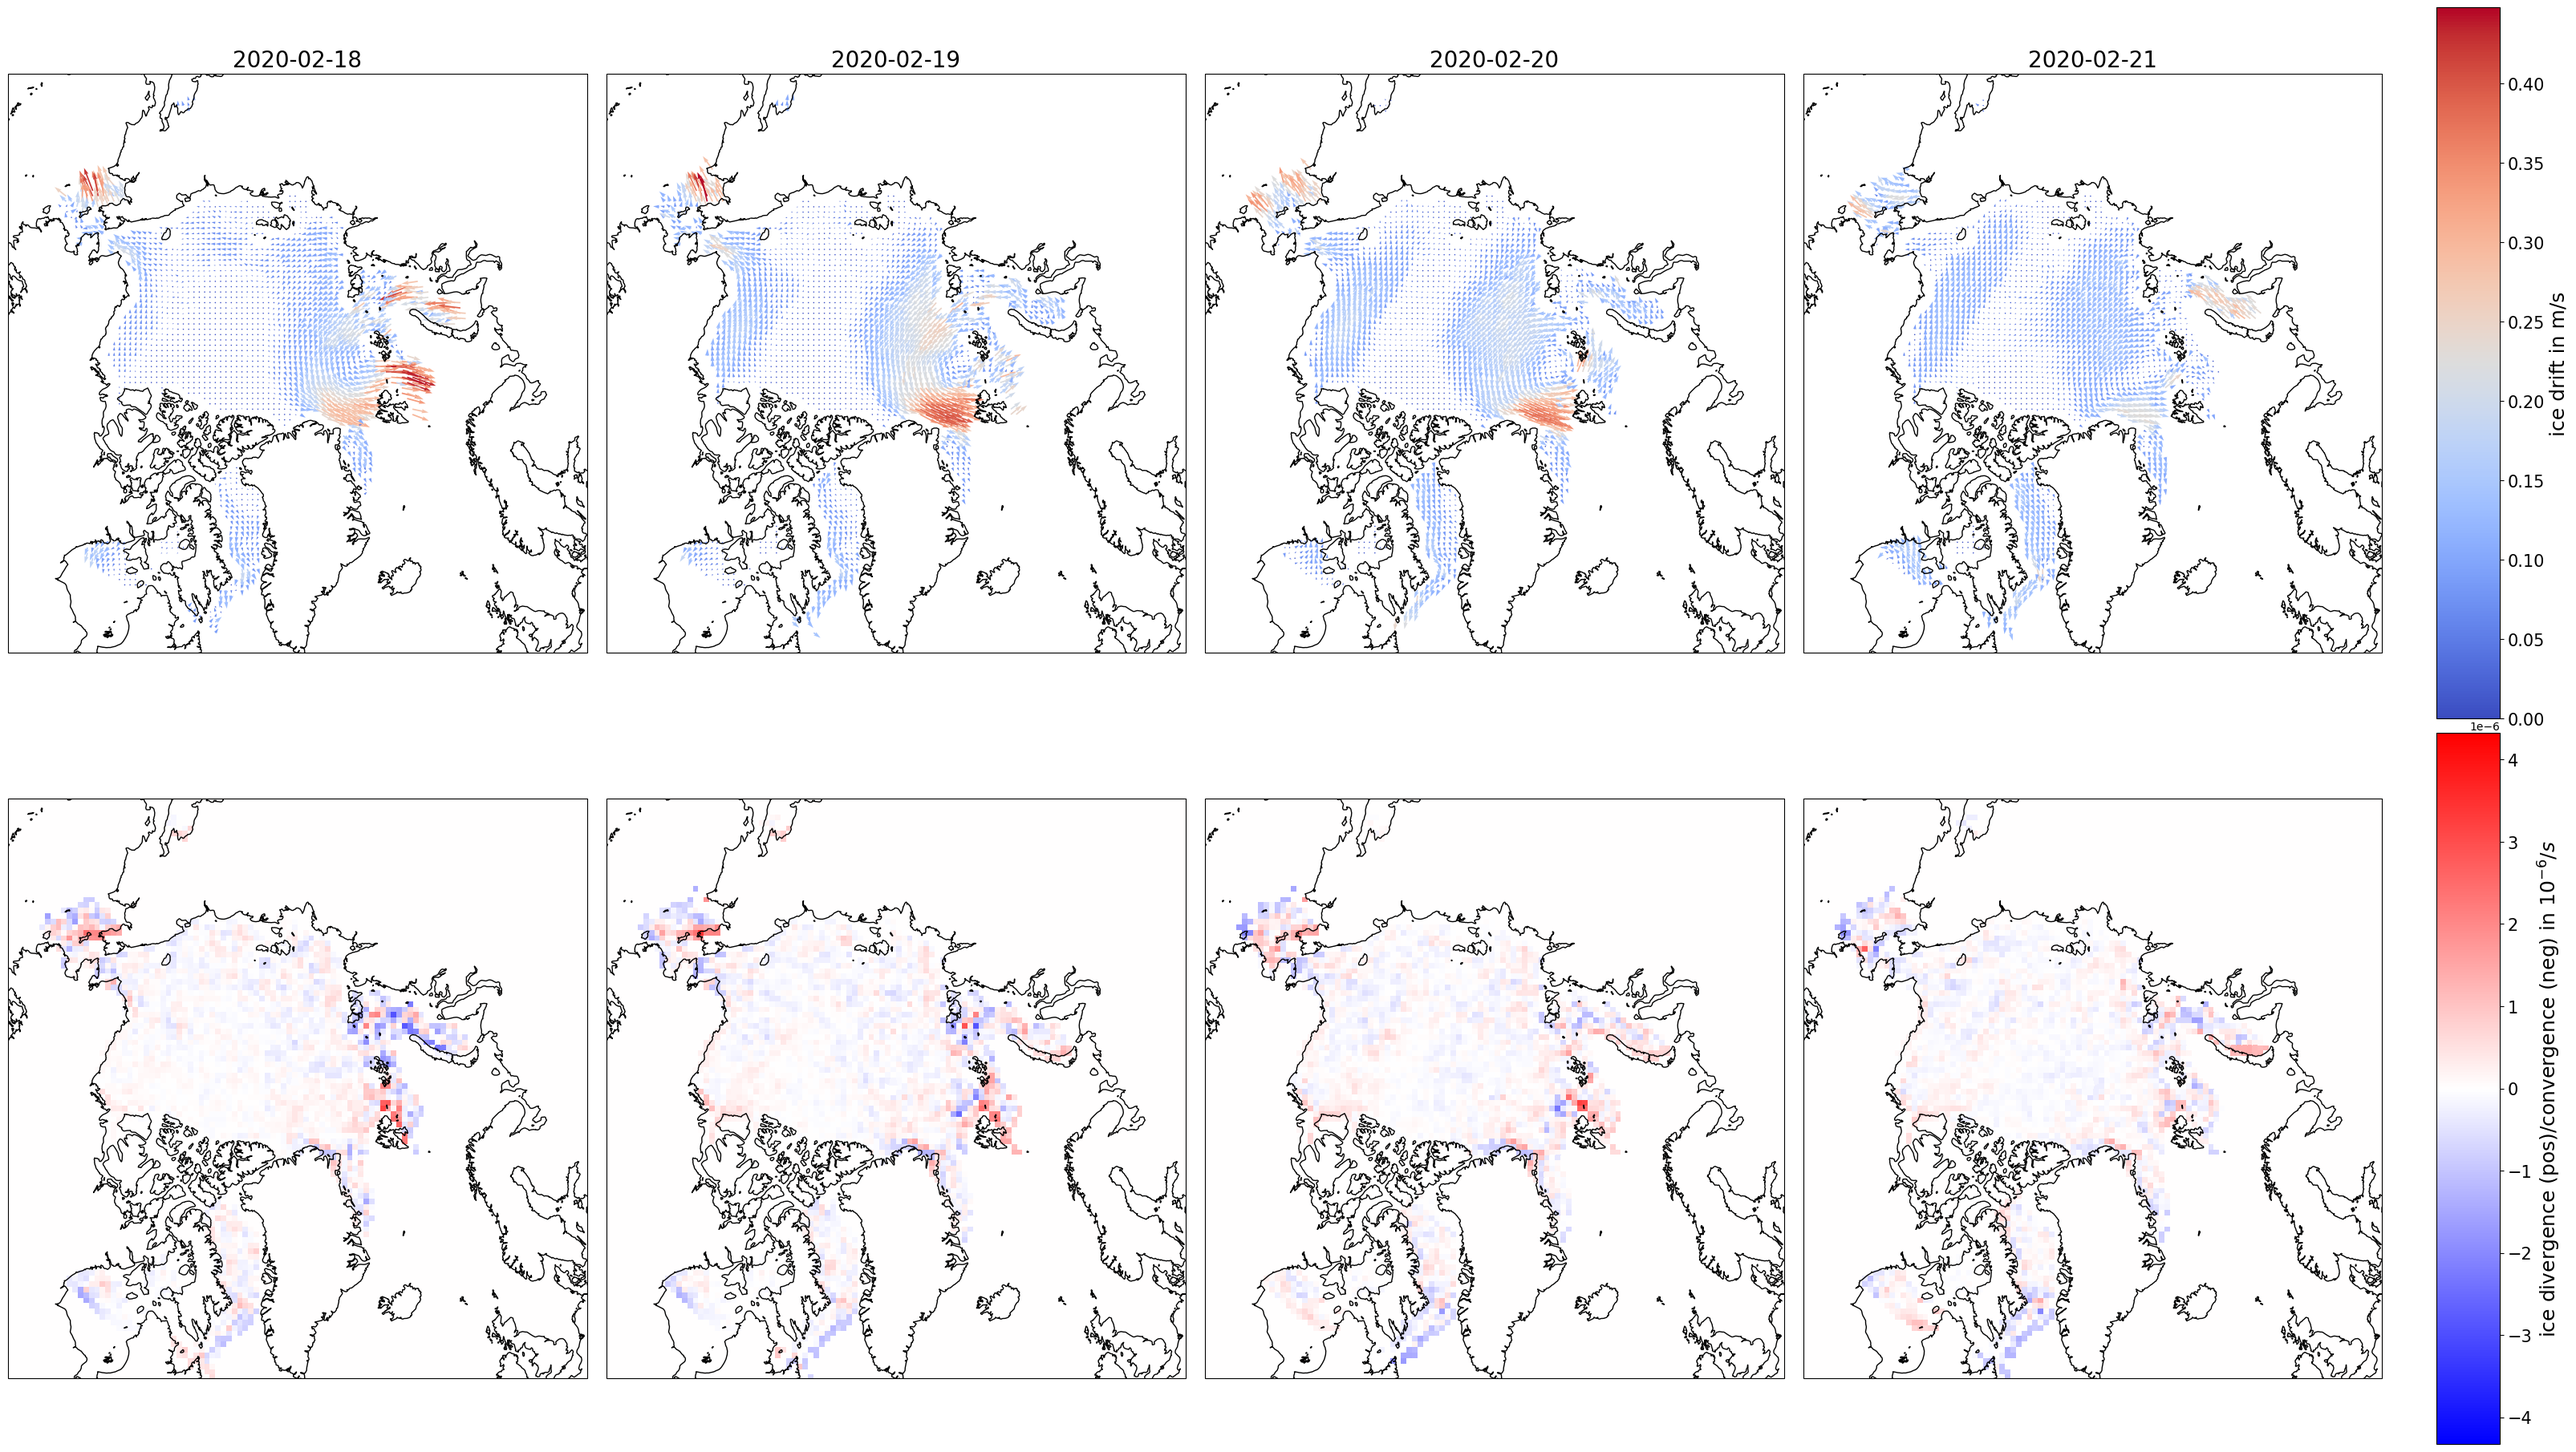
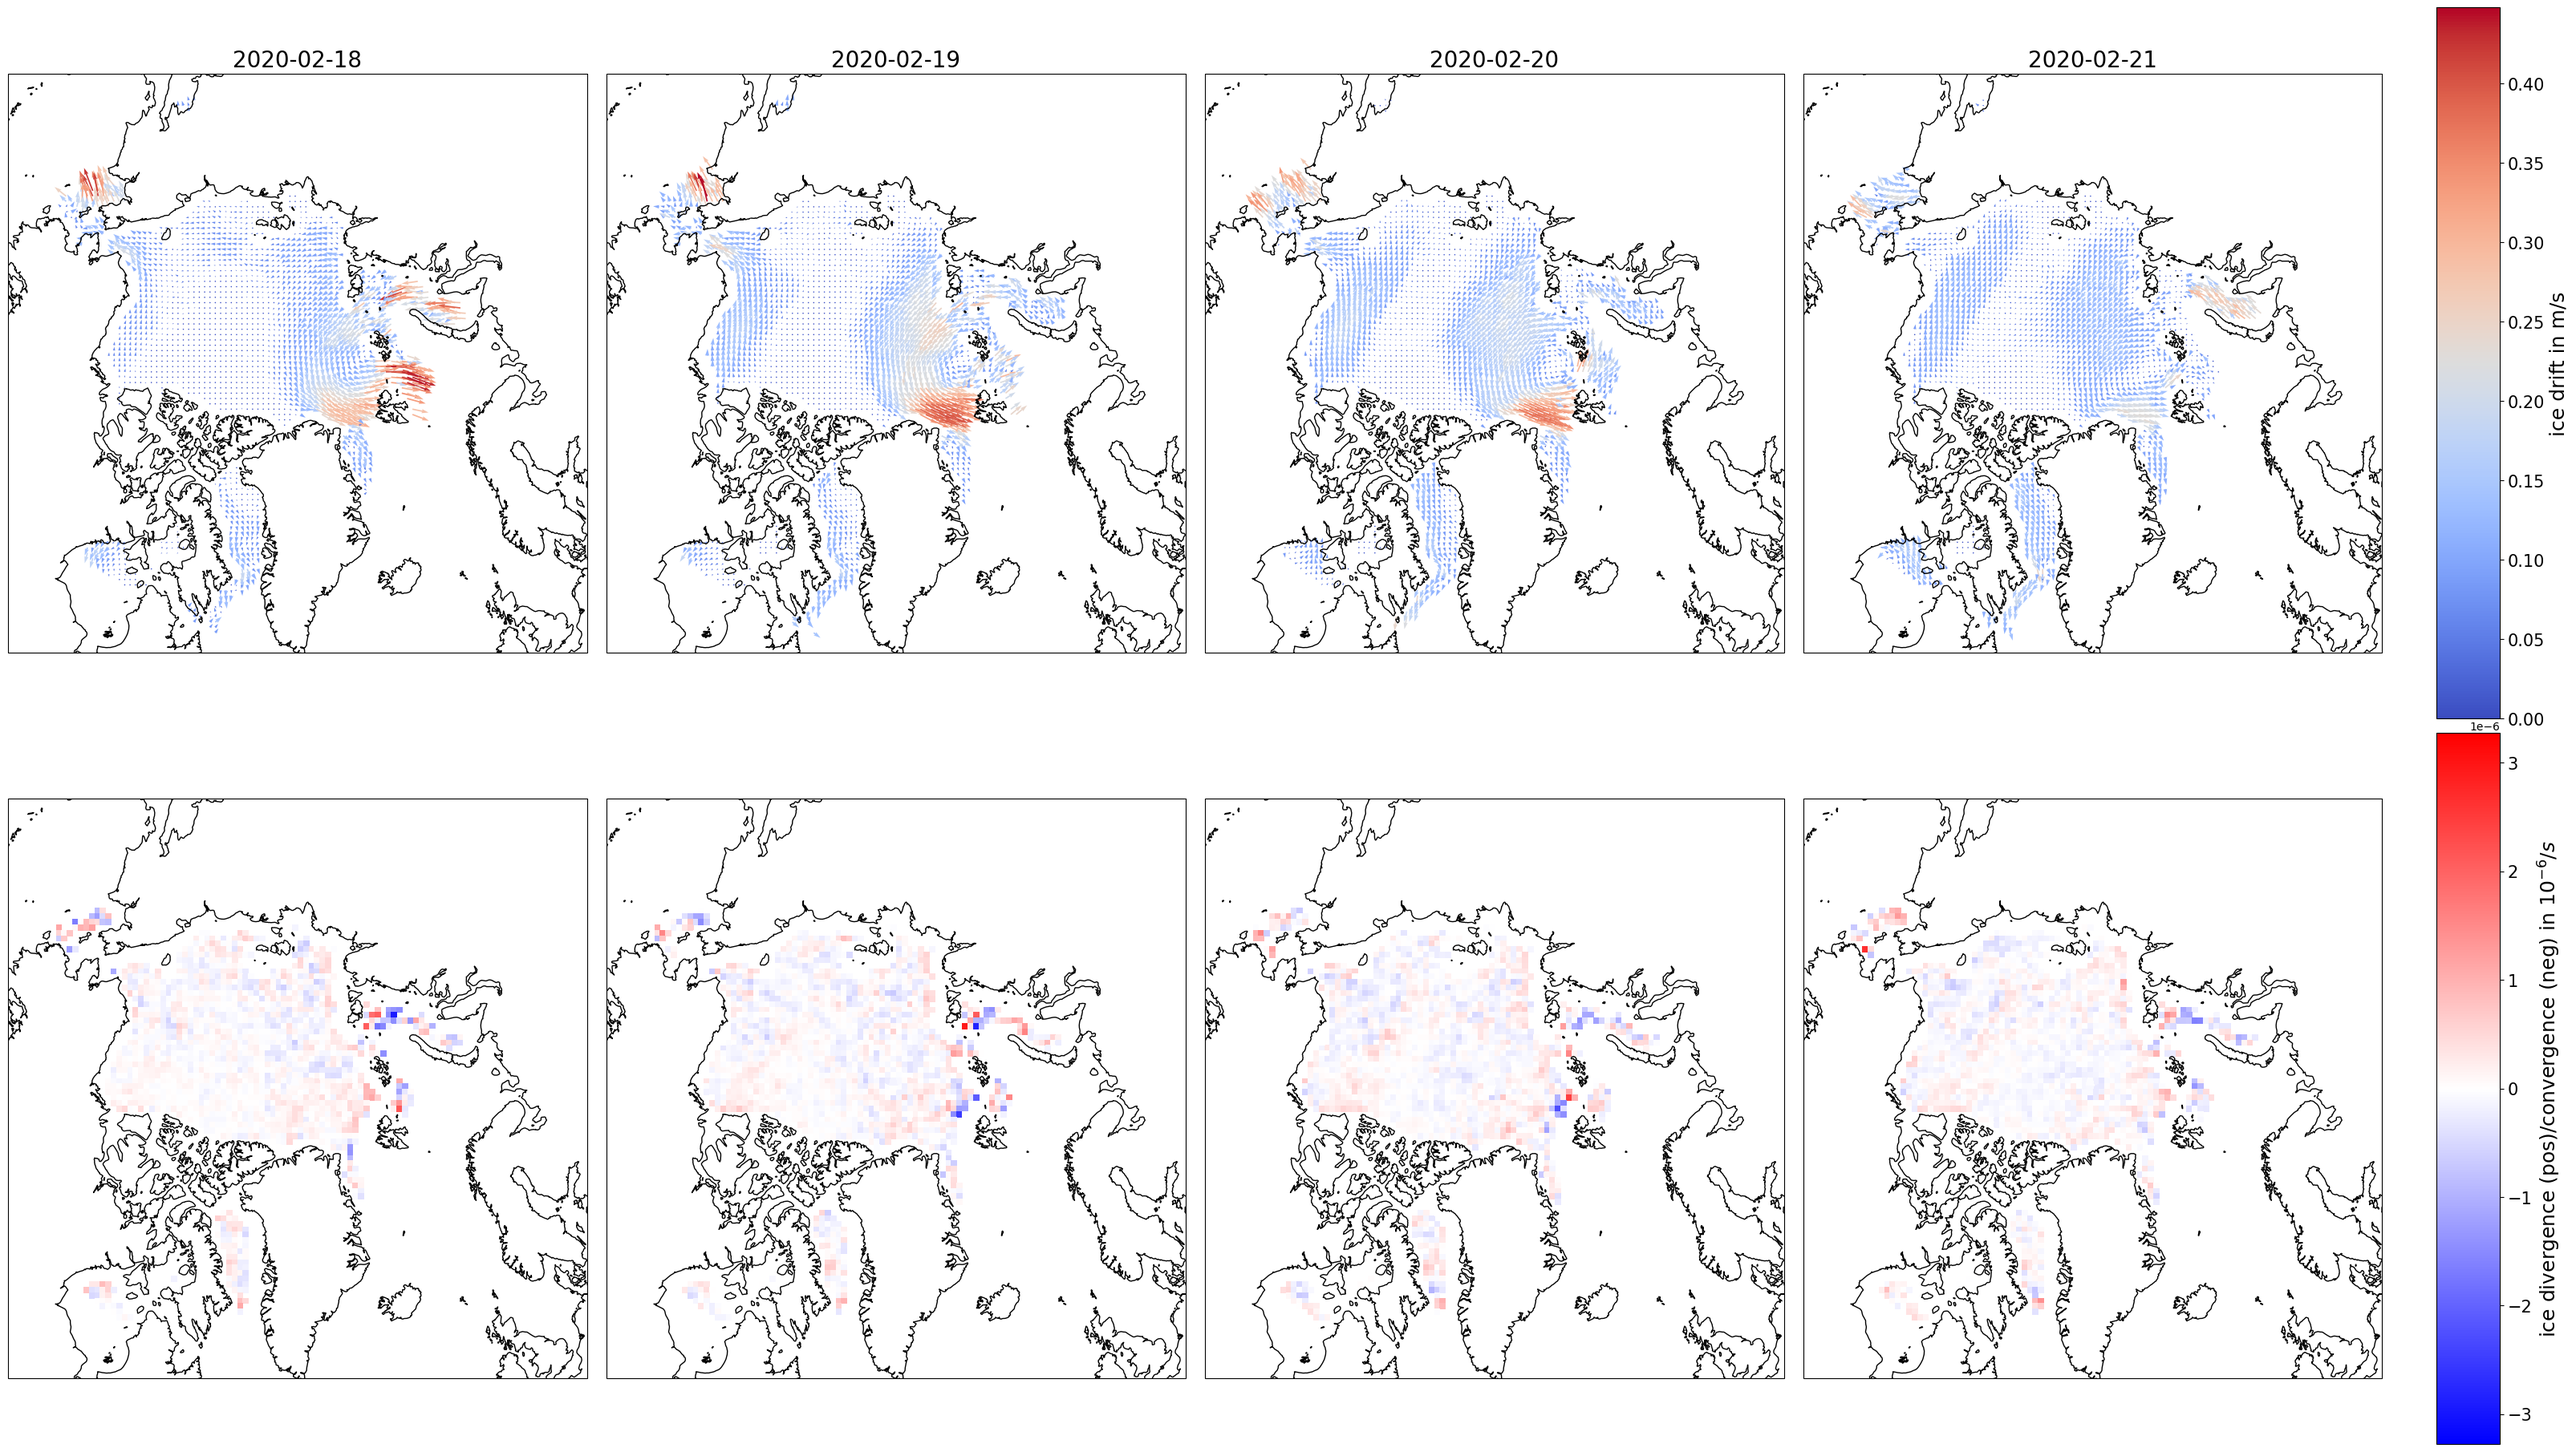
presentation

diff --git a/ice_divergence.py b/ice_divergence.py
@@ -29,13 +29,16 @@ def del_matrix_neighbour(matrix):
 
 
 def matrix_neighbour_diff(x_matrix, y_matrix):
-    du = np.zeros(x_matrix.shape)
-    dv = np.zeros(x_matrix.shape)
-
-    for i in range(1, x_matrix.shape[0] - 1):
-        for j in range(1, x_matrix.shape[1] - 1):
-            du[i, j] = x_matrix[i, j+1] - x_matrix[i, j-1]
-            dv[i, j] = y_matrix[i+1, j] - y_matrix[i-1, j]
+    print(x_matrix.shape, y_matrix.shape)
+    div_shape = x_matrix.shape
+    hy = np.empty((div_shape[0], 1))
+    vx = np.empty((1, div_shape[1]))
+    hy[:], vx[:] = np.nan, np.nan
+    up1 = np.hstack((np.hstack((x_matrix, hy)), hy))
+    vp1 = np.vstack((vx, np.vstack((vx, y_matrix))))
+    up1, vp1 = np.delete(up1, 0, 1), np.delete(vp1, -1, 0)
+    up1, vp1 = np.delete(up1, 0, 1), np.delete(vp1, -1, 0)
+    du, dv = up1 - x_matrix, vp1 - y_matrix
 
     return du, dv
 
@@ -186,15 +189,9 @@ class Eumetsat:
         # distance between two cells is always 62.5 km (both x,y direction)
         #du, dv = matrix_neighbour_diff(u, v)
 
-        hy = np.zeros((dY.shape[0], 1))
-        vx = np.zeros((1, dX.shape[1]))
-        up1 = np.hstack((np.hstack((u, hy)), hy))
-        vp1 = np.vstack((vx, np.vstack((vx, v))))
-        up1, vp1 = np.delete(up1, 0, 1), np.delete(vp1, -1, 0)
-        up1, vp1 = np.delete(up1, 0, 1), np.delete(vp1, -1, 0)
-        du, dv = up1 - u, vp1 - v
+        du, dv = matrix_neighbour_diff(u, v)
 
-        return np.nansum(np.dstack((du, dv)), 2)/125
+        return (du + dv)/125
 
     def ice_shear(self, date):
         # choose the right data set corresponding to date
@@ -209,15 +206,16 @@ class Eumetsat:
         # distance between two cells is always 62.5 km (both x,y direction)
         # du, dv = matrix_neighbour_diff(u, v)
 
-        hy = np.zeros((dY.shape[0], 1))
-        vx = np.zeros((1, dX.shape[1]))
+        hy = np.empty((dY.shape[0], 1))
+        vx = np.empty((1, dX.shape[1]))
+        hy[:], vx[:] = np.nan, np.nan
         up1 = np.hstack((np.hstack((u, hy)), hy))
         vp1 = np.vstack((vx, np.vstack((vx, v))))
         up1, vp1 = np.delete(up1, 0, 1), np.delete(vp1, -1, 0)
         up1, vp1 = np.delete(up1, 0, 1), np.delete(vp1, -1, 0)
         du, dv = up1 - u, vp1 - v
 
-        return np.nansum(np.dstack((du, -dv)), 2) / 125
+        return (du - dv) / 125
 
     def plot_div(self, dates):
         divs = []
@@ -406,6 +404,7 @@ class Eumetsat:
         im = None
         lon, lat = leads.CoordinateGrid().lon, leads.CoordinateGrid().lat
         m_lon, m_lat = leads.Era5('msl').lon, leads.Era5('msl').lat
+        path = None
 
         for date in dates:
             msl = leads.Era5('msl').get_variable(date)
@@ -453,6 +452,7 @@ class Eumetsat:
         lon, lat = leads.CoordinateGrid().lon, leads.CoordinateGrid().lat
         m_lon, m_lat = leads.Era5('msl').lon, leads.Era5('msl').lat
         factor = 1000 / 172800
+        path = None
 
         for date in dates:
             msl = leads.Era5('msl').get_variable(date)
@@ -500,7 +500,7 @@ if __name__ == '__main__':
     all_dates = dscience.time_delta('20200210', '20200228')
     # Eumetsat(ci.barent_extent).plot_drift_leads(all_dates, True)
     # Eumetsat(ci.barent_extent).plot_drift_leads(all_dates, False)
-    # Eumetsat(ci.barent_extent).plot_quiver_div(all_dates)
+    # Eumetsat(ci.barent_extent).plot_drift_div(all_dates)
     # Eumetsat(ci.barent_extent).plot_div_leads(all_dates, True)
     # Eumetsat(ci.barent_extent).plot_div_leads(all_dates, False)
     # Eumetsat(ci.barent_extent).plot_drift_vort(all_dates)
@@ -511,6 +511,5 @@ if __name__ == '__main__':
     # Eumetsat(ci.arctic_extent).plot_drift_div(all_dates)
     # Eumetsat(ci.arctic_extent).plot_div_leads(all_dates, True)
     # Eumetsat(ci.arctic_extent).plot_div_leads(all_dates, False)
-    Eumetsat(ci.arctic_extent).plot_drift_vort(all_dates)
-
+    # Eumetsat(ci.arctic_extent).plot_drift_vort(all_dates)
     pass

diff --git a/multi_plot.py b/multi_plot.py
@@ -1,0 +1,61 @@
+# Module for the creation of multiple Plots in one Figure
+import matplotlib.pyplot as plt
+import cartopy.crs as ccrs
+import case_information as ci
+import data_science as ds
+import plot
+import leads
+
+
+class Multiplot:
+    def __init__(self, date1, date2, extent=ci.barent_extent):
+        self.fig_shape = (2, 6)
+        self.dates = ds.time_delta(date1, date2)
+        self.extent = extent
+        self.lon, self.lat = leads.CoordinateGrid().lon, leads.CoordinateGrid().lat
+        self.regr_lon, self.regr_lat = leads.Era5('msl').lon, leads.Era5('msl').lat
+
+    def setup_plot(self):
+        # create figure and base map
+        fig, ax = plt.subplots(self.fig_shape[0], self.fig_shape[1],
+                               subplot_kw={"projection": ccrs.NorthPolarStereo(-45)}, constrained_layout=True)
+        fig.set_size_inches(32, 18)
+        for i, a in enumerate(ax.flatten()):
+            a.coastlines(resolution='50m')
+            a.set_extent(self.extent, crs=ccrs.PlateCarree())
+        return fig, ax
+
+    def plot_leads_wind_div(self):
+        im1 = None
+
+        for i in range(len(self.dates) % self.fig_shape[1] + 1):
+            fig, ax = self.setup_plot()
+            date_span = self.dates[i * self.fig_shape[1]: i * self.fig_shape[1] + self.fig_shape[1]]
+            divs = []
+            cap = 0
+
+            for date in date_span:
+                div = leads.Era5('wind_quiver').get_div(date)
+                divs.append(div)
+                cap = max(cap, div.max())
+
+            for a1, a2, date, div in zip(ax[0], ax[1], date_span, divs):
+                im1 = a1.pcolormesh(self.lon, self.lat, 100*leads.Lead(date).lead_data, transform=ccrs.PlateCarree(),
+                                    cmap='cool')
+                cim = a1.contour(self.regr_lon, self.regr_lat, leads.Era5('msl').get_variable(date),
+                                 transform=ccrs.PlateCarree(), cmap='Oranges_r', levels=10)
+                a1.clabel(cim, inline=True, fontsize=15, inline_spacing=10)
+                a1.set_title(ds.string_time_to_datetime(date), fontsize=15)
+
+                im2 = a2.pcolormesh(self.regr_lon, self.regr_lat, div, vmin=0, vmax=cap,
+                                    transform=ccrs.PlateCarree(), cmap='bwr')
+
+            cbar1 = fig.colorbar(im1, ax=ax[0])
+            cbar1.ax.tick_params(labelsize=15)
+            cbar2 = fig.colorbar(im2, ax=ax[1])
+            cbar2.ax.tick_params(labelsize=15)
+            plt.show()
+
+
+if __name__ == '__main__':
+    Multiplot('20200215', '20200225').plot_leads_wind_div()

diff --git a/leads.py b/leads.py
@@ -2,6 +2,7 @@ import datetime
 import data_science as ds
 import cftime
 import netCDF4 as nc
+import ice_divergence as id
 import matplotlib.pyplot as plt
 import numpy as np
 
@@ -96,10 +97,18 @@ class Era5:
         t1, t2 = cftime.date2index([d1, d2], self.time)
 
         # Calculate mean variable of the given date
-        mean_var = np.zeros(self.variable[0].shape)
-        for t in range(t1, t2 + 1):
-            mean_var = np.add(mean_var, self.variable[t])
-        return ds.variable_manip(self.var, .25 * mean_var)
+        if self.var == 'wind_quiver':
+            mean_u10, mean_v10 = np.zeros(self.u10[0].shape), np.zeros(self.v10[0].shape)
+            for t in range(t1, t2 + 1):
+                mean_u10 += self.u10[t]
+                mean_v10 += self.v10[t]
+            return .25 * mean_u10, .25 * mean_v10
+
+        else:
+            mean_var = np.zeros(self.variable[0].shape)
+            for t in range(t1, t2 + 1):
+                mean_var = np.add(mean_var, self.variable[t])
+            return ds.variable_manip(self.var, .25 * mean_var)
 
     def get_quiver(self, date):
         # Get time index
@@ -124,6 +133,12 @@ class Era5:
             avg += self.get_variable(date)
 
         self.var_avg = avg / len(dates)
+
+    def get_div(self, date):
+        u10, v10 = self.get_variable(date)
+        du, dv = id.matrix_neighbour_diff(u10, v10)
+        return (du + dv)/15
+
 
 
 class Era5Regrid:
